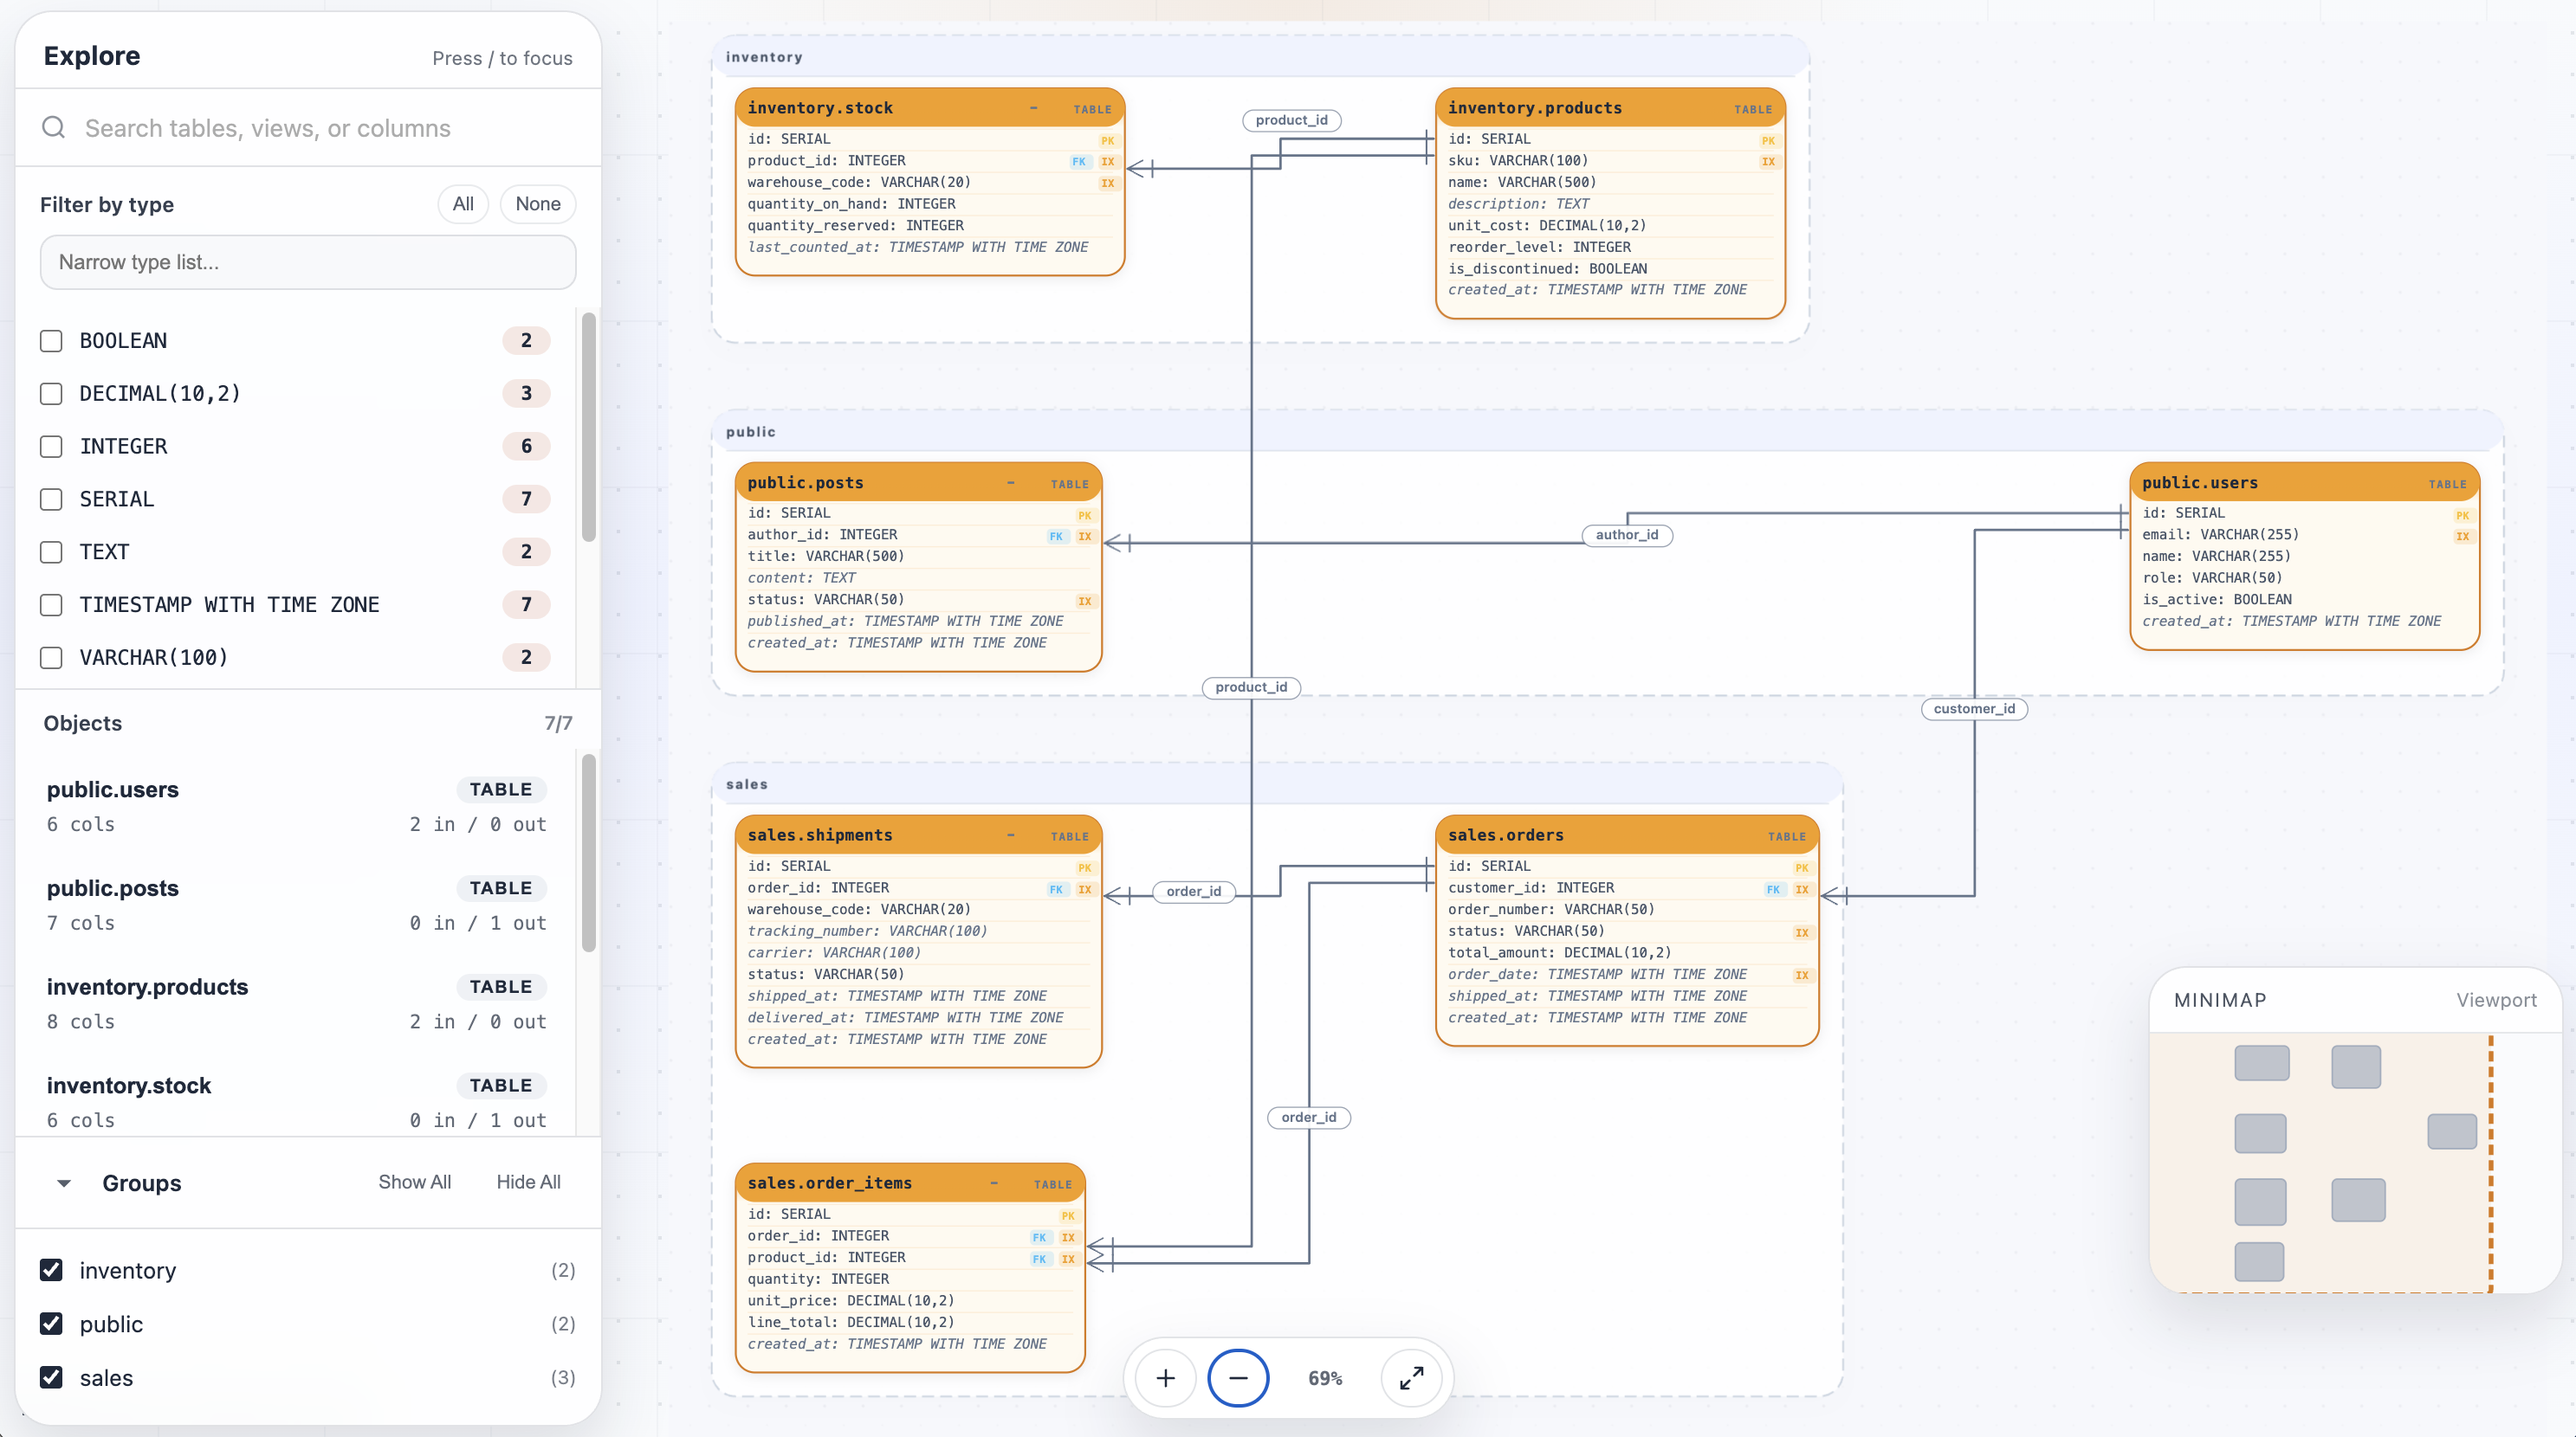
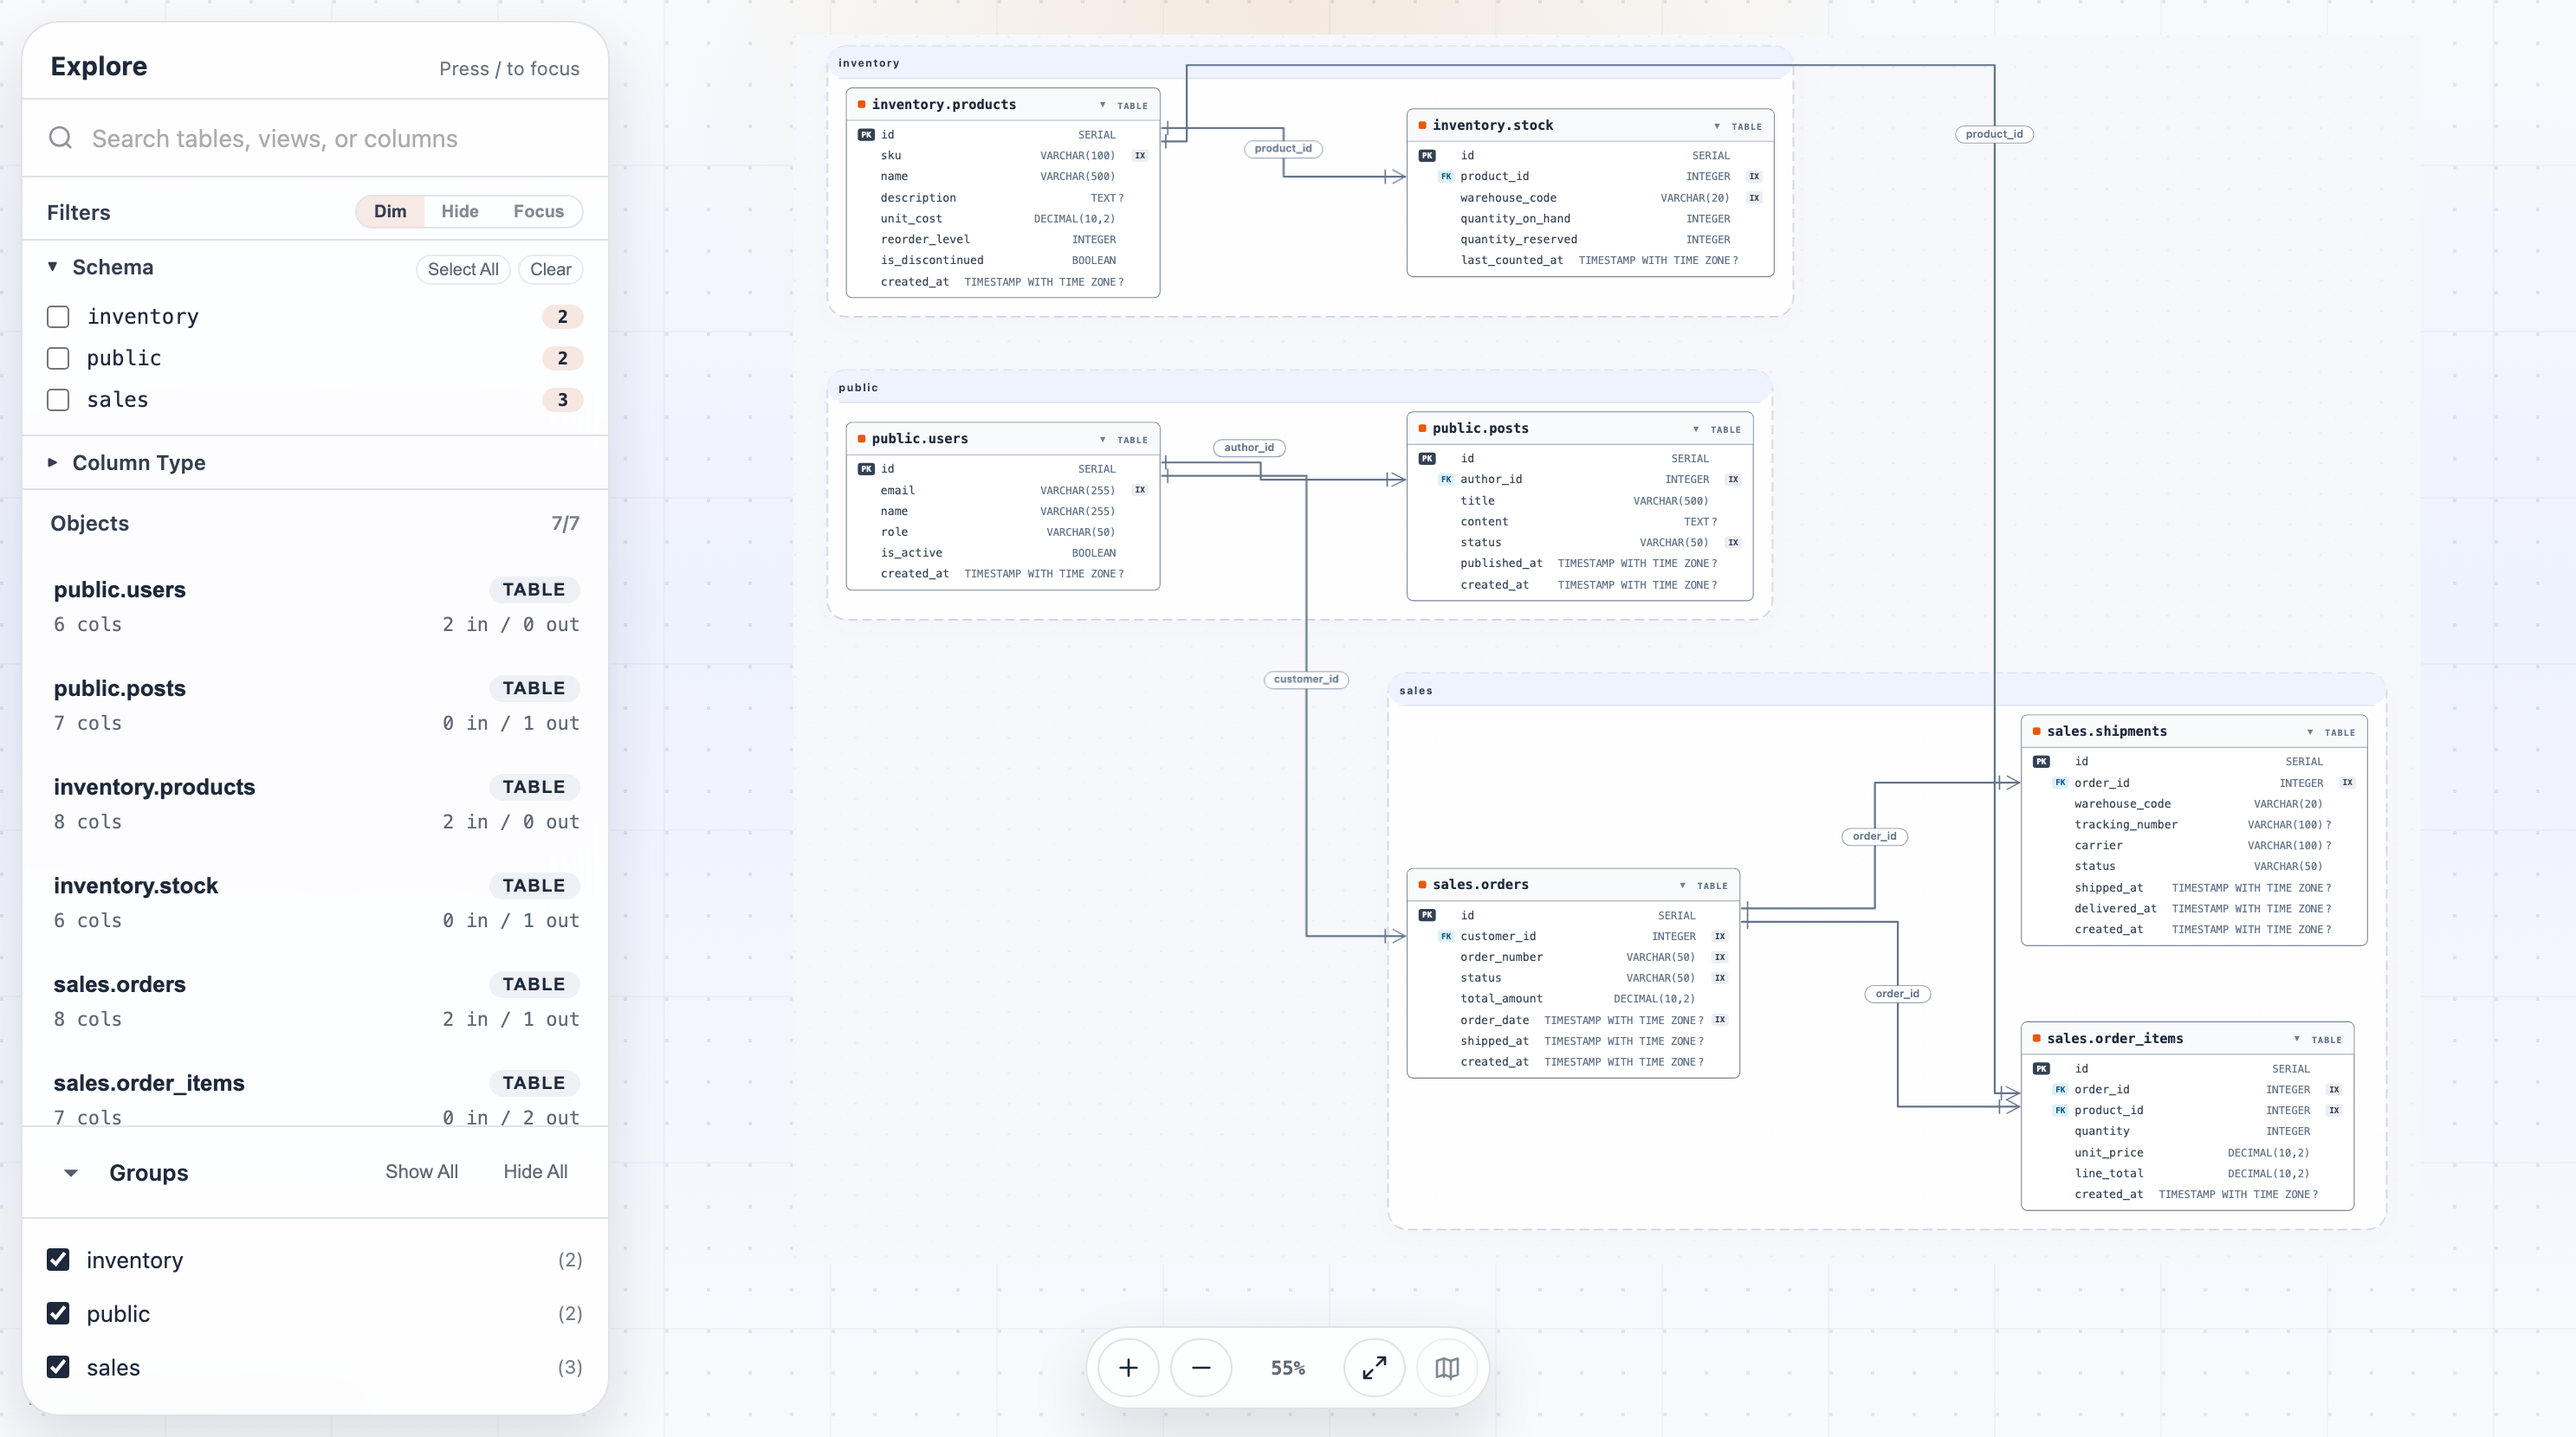
docs: describe the neutral card style and refresh README previews
ARCHITECTURE.md now describes the neutral cards, the kind mark, the
aligned name / type rows with fixed badge and nullable slots, the
per-theme badge colours, and the blue-grey table highlight in the HTML
viewer. The README preview images are re-rendered from the ecommerce
and multi_schema fixtures with the new cards.

diff --git a/ARCHITECTURE.md b/ARCHITECTURE.md
@@ -253,8 +253,8 @@ CI job), and `make bench` times those layouts.
 ## 11. Rendering
 
 - **Theme** (`relune-render-theme`) — Shared palettes and theme-facing DTOs consumed by both renderers. `ThemeColors` includes `glow_color` and `glow_particle` fields so hover/highlight effects adapt to light and dark themes.
-- **SVG** (`relune-render-svg`) — Geometry, edge paths, labels, themes, optional embedded CSS. Tables, views, and enums share one positioned graph and are styled by node/edge kind. When a `DiagramOverlay` is provided, the renderer applies severity-colored borders and stroke overrides on affected nodes/edges, adds count badges at the top-right corner of annotated nodes, appends overlay annotation details to `<title>` tooltips, and adds CSS classes (`overlay-error`, `overlay-warning`, etc.) for downstream styling. Visual conventions: header-to-body transition uses a gradient fade shared per node kind; column names share one clip per badge count within a node; column metadata (PK, FK, IX) is rendered as uniform rounded-rect badges; edge arrow uses an open-chevron marker with `userSpaceOnUse` for constant size; cardinality markers use enlarged viewBoxes for density resilience. The edge hover glow is a CSS `drop-shadow` on the edge path itself, and each FK edge carries a single flow particle whose SMIL animation runs only while the edge is hovered, so idle diagrams keep no animation timers. Text and attribute values go through the shared escaper, which also replaces characters XML 1.0 forbids (C0 controls other than tab/newline/CR, U+FFFE, U+FFFF) with U+FFFD so the file always parses.
-- **HTML** (`relune-render-html`) — Wraps SVG with interactive behavior (pan/zoom, search, filters, grouping toggles, table collapse, highlights) and embeds node/edge kind metadata for client-side features. Hover uses a lightweight popover plus subtle 1-hop preview, while click promotes a node into fixed selection and opens the detail drawer. Nodes are indexed once at load, and hover only touches the previewed neighborhood without rebuilding the object browser; the viewer also drives FK flow particles for highlighted edges. Search, the object browser, and URL restoration share one metadata matcher (names, schema, id, column names and types), so tooltip and badge text never match. Shareable URL hashes write list values (facets, hidden groups, collapsed tables) as repeated parameters, and keyboard shortcuts ignore Ctrl/Cmd/Alt chords. When a `DiagramOverlay` is provided, annotations are serialized into the `issues` field of table and edge metadata (JSON), the detail drawer gains a "Health" section listing each issue with severity badge and optional hint, and the object browser displays severity-indicator badges with issue counts on affected tables. Viewer logic is TypeScript under `crates/relune-render-html/ts/`; bundled JS is committed under `crates/relune-render-html/src/js/` and consumed via `include_str!`. The pure state/action helpers (`*_state.ts`, `*_actions.ts`, edge dimming, viewer runtime) have unit tests, and the collapse, search, and URL-state modules are exercised against viewer markup; all are Vitest suites (`ts/*.test.ts`, happy-dom) run through `make test-html-viewer`. Node + pnpm are required for renderer development when regenerating those bundles, but Rust builds consume the committed assets without installing frontend dependencies at build time.
+- **SVG** (`relune-render-svg`) — Geometry, edge paths, labels, themes, optional embedded CSS. Tables, views, and enums share one positioned graph and are styled by node/edge kind. When a `DiagramOverlay` is provided, the renderer applies severity-colored borders and stroke overrides on affected nodes/edges, adds count badges at the top-right corner of annotated nodes, appends overlay annotation details to `<title>` tooltips, and adds CSS classes (`overlay-error`, `overlay-warning`, etc.) for downstream styling. Visual conventions: node cards use the theme's neutral surface, a 1px border, and a header divider, with the node kind shown only by a small colored mark before the table name; column rows draw the name left-aligned and the type right-aligned, with PK / FK badges, a `?` nullable marker, and the IX badge in fixed per-node slots (`relune_layout::metrics::ColumnSlots`) so they line up down the card; names and types share one clip per node; PK / FK / IX badges use per-theme colors that step down in weight (solid neutral PK, blue FK, grey IX), and the legend draws the same badges; edge arrow uses an open-chevron marker with `userSpaceOnUse` for constant size; cardinality markers use enlarged viewBoxes for density resilience. The edge hover glow is a CSS `drop-shadow` on the edge path itself, and each FK edge carries a single flow particle whose SMIL animation runs only while the edge is hovered, so idle diagrams keep no animation timers. Text and attribute values go through the shared escaper, which also replaces characters XML 1.0 forbids (C0 controls other than tab/newline/CR, U+FFFE, U+FFFF) with U+FFFD so the file always parses.
+- **HTML** (`relune-render-html`) — Wraps SVG with interactive behavior (pan/zoom, search, filters, grouping toggles, table collapse, highlights) and embeds node/edge kind metadata for client-side features. Hover uses a lightweight popover plus subtle 1-hop preview, while click promotes a node into fixed selection and opens the detail drawer; highlighted tables are outlined in a per-theme blue-grey `--selection-color` rather than glowing, so selection never shares a hue with kind marks or warnings. Nodes are indexed once at load, and hover only touches the previewed neighborhood without rebuilding the object browser; the viewer also drives FK flow particles for highlighted edges. Search, the object browser, and URL restoration share one metadata matcher (names, schema, id, column names and types), so tooltip and badge text never match. Shareable URL hashes write list values (facets, hidden groups, collapsed tables) as repeated parameters, and keyboard shortcuts ignore Ctrl/Cmd/Alt chords. When a `DiagramOverlay` is provided, annotations are serialized into the `issues` field of table and edge metadata (JSON), the detail drawer gains a "Health" section listing each issue with severity badge and optional hint, and the object browser displays severity-indicator badges with issue counts on affected tables. Viewer logic is TypeScript under `crates/relune-render-html/ts/`; bundled JS is committed under `crates/relune-render-html/src/js/` and consumed via `include_str!`. The pure state/action helpers (`*_state.ts`, `*_actions.ts`, edge dimming, viewer runtime) have unit tests, and the collapse, search, and URL-state modules are exercised against viewer markup; all are Vitest suites (`ts/*.test.ts`, happy-dom) run through `make test-html-viewer`. Node + pnpm are required for renderer development when regenerating those bundles, but Rust builds consume the committed assets without installing frontend dependencies at build time.
 
 The two crates are separate to keep low-level vector output apart from document bundling and JS tooling.
 
